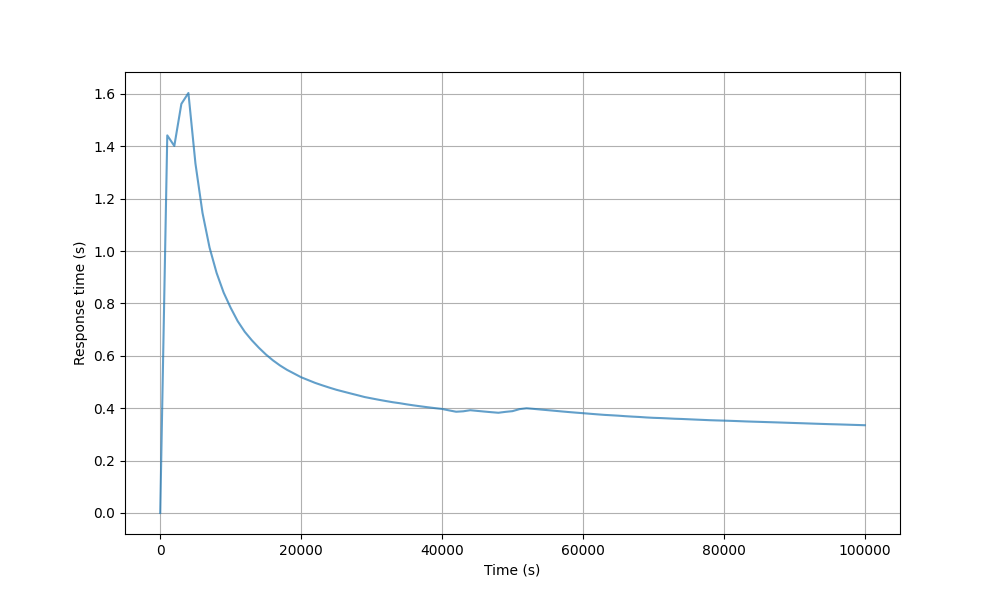
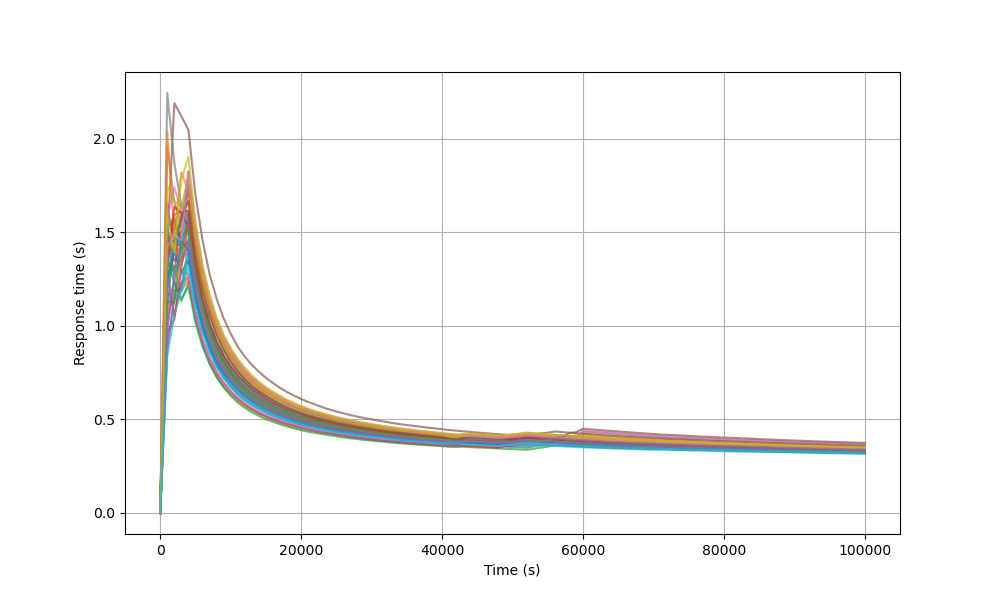
sistemazione simulazione con scaling

diff --git a/utils/sim_output.py b/utils/sim_output.py
@@ -2,6 +2,7 @@ import csv
 import statistics
 import matplotlib.pyplot as plt
 import os
+import utils.variables as vs
 from utils.sim_utils import *
 file_path = "simulation/../output/csv/"
 
@@ -104,12 +105,18 @@ def plot_rho_t(rho_times, sim_type, name, ylabel='Rho'):
 
     x_values = [t for t, _ in rho_times]
     y_values = [rho for _, rho in rho_times]
+    y_max = max(1.0, max(y_values) + 0.05)
 
     plt.figure(figsize=(10, 6))
+    plt.axhline(y=vs.RHO_UP, color='red', linestyle='--', label=f'Rho up {vs.RHO_UP:g}')
+    plt.axhline(y=vs.RHO_DOWN, color='green', linestyle='--', label=f'Rho down {vs.RHO_DOWN:g}')
     plt.step(x_values, y_values, where='post')
+    plt.ylim(0, y_max)
+    plt.yticks([i / 20 for i in range(0, int(20 * y_max) + 1)])
     plt.xlabel('Time')
     plt.ylabel(ylabel)
     plt.grid(True)
+    plt.legend()
 
     os.makedirs(output_dir, exist_ok=True)
     output_path = os.path.join(output_dir, f'{name}.png')
@@ -119,6 +126,26 @@ def plot_rho_t(rho_times, sim_type, name, ylabel='Rho'):
 def plot_realistic_vs_scaling_response_time(realistic_resp_times, scaling_resp_times, qos=10.0,
                                             name="realistic_vs_scaling_response_time"):
     output_dir = "simulation/../output/plot/finite_simulation/realistic_vs_scaling"
+
+    def mean_curve(resp_times):
+        if not resp_times:
+            return []
+        if isinstance(resp_times[0], tuple):
+            return resp_times
+
+        curve = []
+        max_len = max((len(series) for series in resp_times), default=0)
+        for i in range(max_len):
+            points = [series[i] for series in resp_times if i < len(series)]
+            if points:
+                curve.append((
+                    statistics.mean(t for t, _ in points),
+                    statistics.mean(r for _, r in points),
+                ))
+        return curve
+
+    realistic_resp_times = mean_curve(realistic_resp_times)
+    scaling_resp_times = mean_curve(scaling_resp_times)
 
     if not realistic_resp_times or not scaling_resp_times:
         return
@@ -131,7 +158,7 @@ def plot_realistic_vs_scaling_response_time(realistic_resp_times, scaling_resp_t
 
     plt.figure(figsize=(10, 6))
     plt.axhline(y=qos, color='r', linestyle='--', label=f'QoS {qos:g}s')
-    plt.plot(scaling_x, scaling_y, label='Improved model')
+    plt.plot(scaling_x, scaling_y, label='Realistic model with scaling')
     plt.plot(real_x, real_y, label='Realistic base model')
     plt.xlim(0, end_time)
     plt.xlabel('Time')

diff --git a/main.py b/main.py
@@ -178,12 +178,11 @@ def start_realistic_2fa_simulation():
 
 
 def start_scaling_simulation():
-    _, scaling_stats = _start_finite_scenario(
+    scaling_replication_stats, _ = _start_finite_scenario(
         "FINITE SCALING REALISTIC SIMULATION",
         scaling_finite_simulation,
         "scaling_model",
         "scaling_model",
-        normal_replications=1,
         plot_population=False,
         plot_scaling=True,
     )
@@ -191,7 +190,7 @@ def start_scaling_simulation():
         _, realistic_stats = realistic_finite_simulation(vs.STOP)
         plot_realistic_vs_scaling_response_time(
             realistic_stats.system_resp_times,
-            scaling_stats.system_resp_times,
+            scaling_replication_stats.system_resp_interval,
             qos=10.0,
         )
 
